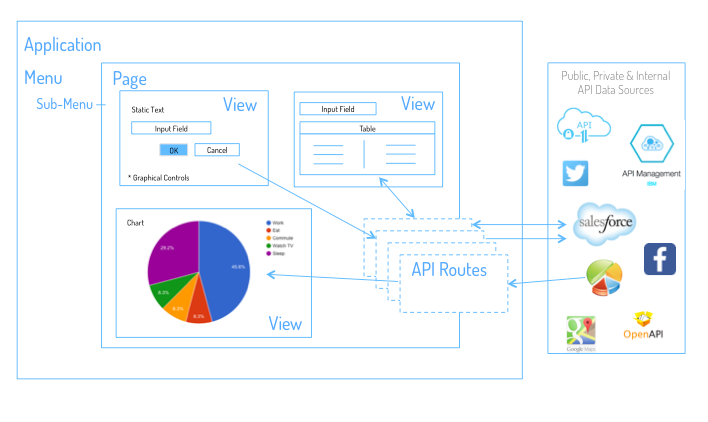
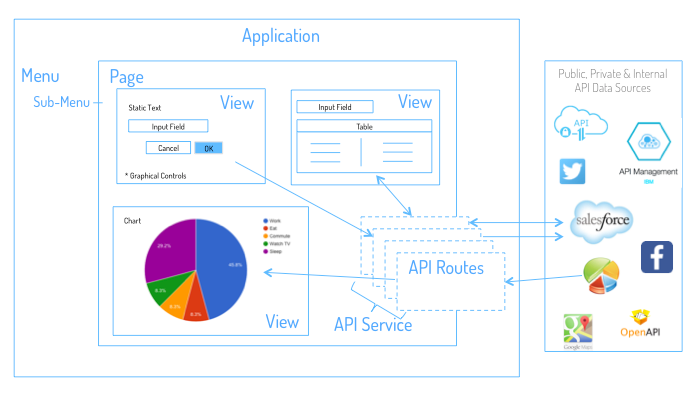
update mainly of existing doc

Changed region(s): [[0.0, 0.0303, 0.9928, 0.9091], [0.0301, 0.9394, 0.7521, 0.9697]]

diff --git a/source/devguide/app-anatomy.rst b/source/devguide/app-anatomy.rst
@@ -1,7 +1,8 @@
 Anatomy of a DreamFace App
 ==========================
 
-DreamFace applications are cloud-native, multitenant applications built using four main components :
+DreamFace applications are cloud-native, multitenant applications consisting of Application Settings that define application behavior
+and four main components that are the fundamental building blocks of a DreamFace app :
 
 Application Components
 ^^^^^^^^^^^^^^^^^^^^^
@@ -12,7 +13,7 @@ Application Components
  **Navigation Menu**   Menu and Sub-Menus provide navigation through the application. Navigation starts with a Home Menu linked to the Home Page of the application. Menu Items are associated with Pages.
  **Pages**             Applications can have several Pages, each Page is composed of a number of Views arranged in a layout of rows and columns which makes up the user interface of the application.
  **Views**             Views (sometimes called Widgets) contain graphical controls like input fields, buttons and tables, arranged in a layout of rows and columns which makes up the User Interface of the View
- **API Services**      API Services group together related API Routes which define how to access to the data by defining the API call to a service.
+ **API Services**      API Services group together related **API Routes** which define how to access public, private or internal back-end API data sources (usually REST services).
 ====================   ==========================================================================================================================================
 
 .. image:: ../images/diagrams/dfd-app-anatomy.png

diff --git a/source/glossary.rst b/source/glossary.rst
@@ -6,6 +6,7 @@ Glossary
 |
 
 .. glossary::
+    :sorted:
 
     Angular
         AngularJS (commonly referred to as "Angular") is an open-source front-end javascript framework for extending  and adding interactivity to HTML to meet the challenges of single page applications (SPA). It was created and is maintained by Google and a community of developers. The goal of Angular is to simplify the development and the testing of the user interface of SPA applications by providing a framework for client-side model–view–controller (MVC) architecture, as well as other components commonly used in rich Internet applications. Angular is used intensly in DreamFace to do the data binding between the view (user interface) and the model (application data).
@@ -55,6 +56,8 @@ Glossary
         be installed using npm. They can be combined with other
     MEAN Stack
         An emerging technology stack for building modern web and mobile applications in javascript from client to server. MEAN is an acronym that stands for MongoDB, ExpressJS, Angularjs and Node.js.
+    microservices
+        Microservices is an evolution of the composite approach to application development. It involves designing software applications as small packages of independently deployable services. Using these self-contained components as building blocks, companies can get innovative services to market more quickly, easily and affordably.
     MVC
         Model View Controller (MVC) architecture.
     Node

diff --git a/source/gsguide/getting-started.rst b/source/gsguide/getting-started.rst
@@ -3,10 +3,10 @@
 Getting Started
 ===============
 
-Get started building your first DreamFace app!
+Get started now building your first DreamFace app!
 
-Follow the step-by-step tutorial below to Create your First App or find out more about DreamFace, by checking out one of the topics below.
-For a deeper dive viist the :ref:`developer-guide-label`, which goes hands on into best practices and the most common use cases for developing with DreamFace.
+Follow the step-by-step tutorial below to Create your First App or find out more about DreamFace by checking out one of the topics below.
+For a deeper dive visit the :ref:`developer-guide-label`, which goes hands on into best practices and the most common use cases for developing with DreamFace.
 
 
 .. toctree::

diff --git a/source/microservices.rst b/source/microservices.rst
@@ -1,0 +1,5 @@
+DreamFace is part of a MicroService economy that we believe in its growth. We give a “face” to these microservices.
+We are 100% complimentary to what StrongLoop or Apigee or WSO2… In th eBluemix world, this would have a huge significance
+since we can give a great business value by consuming the services (most of them back end ones) and delivering value in a
+record time. We would like to “prove this value chain” and we care for your honest opinion to help us in this while we
+are adding value to your efforts.

diff --git a/source/devguide/statictext.rst b/source/devguide/statictext.rst
@@ -1,0 +1,14 @@
+Static Text
+===========
+
+|
+
+Description
+^^^^^^^^^^^
+
+Static Text controls display text that does not require user input. They often serve as Labels for other controls or areas of the widget. They also can be used to display icons that add context to the user interface.
+
+|
+
+Properties
+^^^^^^^^^^

diff --git a/source/devguide/api-services.rst b/source/devguide/api-services.rst
@@ -77,3 +77,4 @@ you can perform :
 * View Result - will return the results (data) from the service call
 * View Request - will display the request that was sent off to the service. This is used mainly to view the Request that was sent to the service for debugging purposes.
 
+|

diff --git a/source/index.rst b/source/index.rst
@@ -1,4 +1,3 @@
-
 Start building the applications of your dreams today!
 
 
